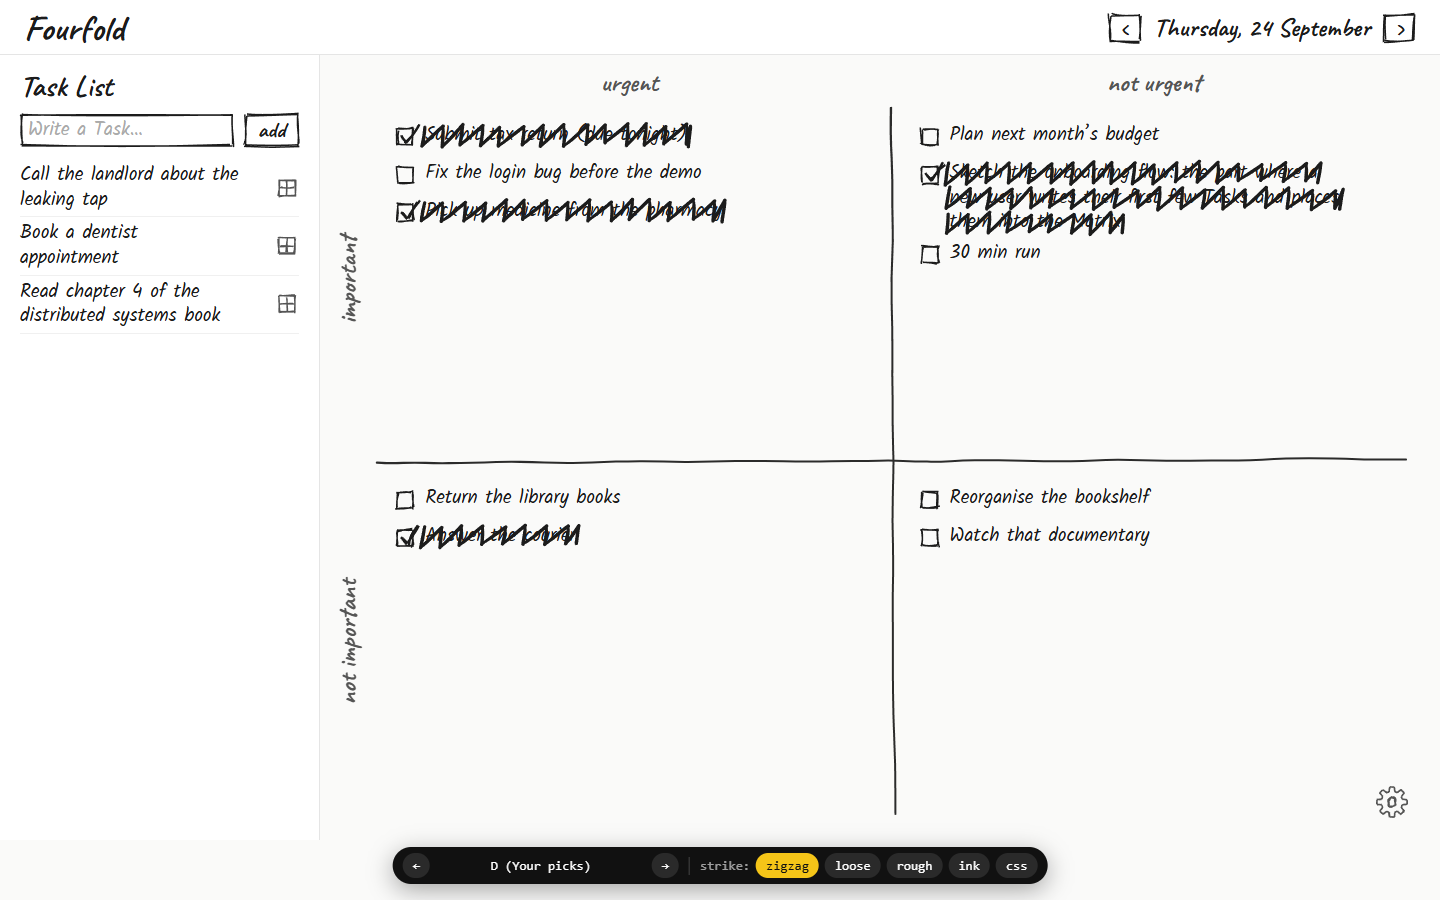
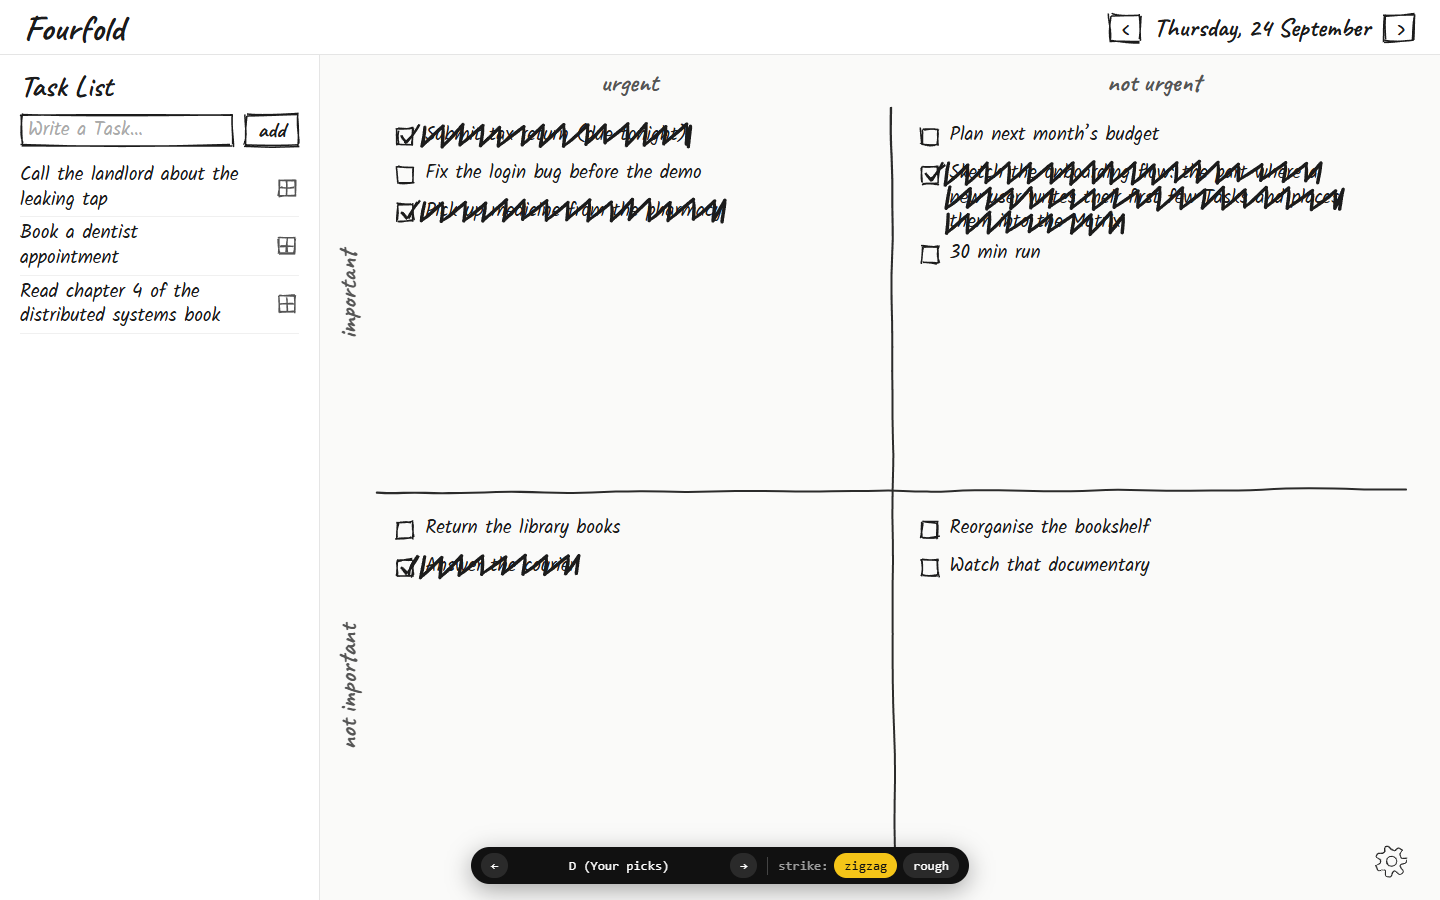
PROTOTYPE #8: D round 6 - drawn return arrow, doodled gear, no bottom gap, zigzag and rough only, new dark themes
- Matrix return button is a hand-drawn arrow instead of the ↩ glyph
- Settings gear is doodled in felt pen in the Matrix line colour
- Removed the 60px gap under the Task List and Matrix
- Strike options cut to zigzag (default) and rough
- Colours: plain, ivory & navy, ivory & black, and four dark bases to iterate on
  (ivory ink, chalkboard, midnight, red pen)

diff --git a/prototypes/visual-direction/src/styles.css b/prototypes/visual-direction/src/styles.css
@@ -8,7 +8,6 @@ ul, ol { list-style: none; margin: 0; padding: 0; }
 /* ---------- Strike-through ---------- */
 .strike-wrap { position: relative; display: block; flex: 1; min-width: 0; }
 .strike-none { text-decoration: none; }
-.strike-css { text-decoration: line-through; text-decoration-thickness: 2px; text-decoration-color: var(--strike, currentColor); }
 s { opacity: 0.6; }
 .strike-svg { position: absolute; inset: 0; width: 100%; height: 100%; overflow: visible; pointer-events: none; color: var(--strike, currentColor); }
 .draw-on { stroke-dasharray: 1; stroke-dashoffset: 1; animation: draw-on 0.35s ease-out var(--d, 0s) forwards; }
@@ -139,17 +138,20 @@ s { opacity: 0.6; }
   position: relative; height: 100%; display: flex; flex-direction: column; background: var(--bg); color: var(--ink); font: 19px/1.3 Kalam, cursive;
   transition: background-color .25s, color .25s;
 }
-/* Luxury: an ivory and a noir base, each with a gold accent and three others */
-.vd[data-theme=ivory], .vd-swatch[data-theme=ivory], .vd[data-theme=ivory-navy], .vd-swatch[data-theme=ivory-navy], .vd[data-theme=ivory-forest], .vd-swatch[data-theme=ivory-forest], .vd[data-theme=ivory-burgundy], .vd-swatch[data-theme=ivory-burgundy] { --bg: #f7f3ea; --panel: #fffdf8; --line: #e6dcc6; --line-soft: #efe8d8; --ink: #161616; --faint: #b9ad93; --divider: #161616; --soft: #f0e8d6; --danger: #8e2a1c; }
-.vd[data-theme=ivory], .vd-swatch[data-theme=ivory] { --muted: #9a8456; --strike: #b08d4a; }
+/* Ivory base with a navy or a black pen */
+.vd[data-theme=ivory-navy], .vd-swatch[data-theme=ivory-navy], .vd[data-theme=ivory-black], .vd-swatch[data-theme=ivory-black] { --bg: #f7f3ea; --panel: #fffdf8; --line: #e6dcc6; --line-soft: #efe8d8; --ink: #161616; --faint: #b9ad93; --divider: #161616; --soft: #f0e8d6; --danger: #8e2a1c; }
 .vd[data-theme=ivory-navy], .vd-swatch[data-theme=ivory-navy] { --muted: #4a5d80; --strike: #1f3a68; }
-.vd[data-theme=ivory-forest], .vd-swatch[data-theme=ivory-forest] { --muted: #5b7560; --strike: #2f5a3e; }
-.vd[data-theme=ivory-burgundy], .vd-swatch[data-theme=ivory-burgundy] { --muted: #85505a; --strike: #7d1f2e; }
-.vd[data-theme=noir], .vd-swatch[data-theme=noir], .vd[data-theme=noir-silver], .vd-swatch[data-theme=noir-silver], .vd[data-theme=noir-rose], .vd-swatch[data-theme=noir-rose], .vd[data-theme=noir-sage], .vd-swatch[data-theme=noir-sage] { --bg: #111111; --panel: #1a1a19; --line: #2e2b26; --line-soft: #24221f; --ink: #ede6d6; --faint: #6f685a; --soft: #26231f; --danger: #e07a5f; --shadow: rgba(0,0,0,.6); }
-.vd[data-theme=noir], .vd-swatch[data-theme=noir] { --muted: #b09c70; --divider: #c9a45c; --strike: #c9a45c; }
-.vd[data-theme=noir-silver], .vd-swatch[data-theme=noir-silver] { --bg: #111214; --panel: #1a1b1d; --line: #2d2f33; --line-soft: #232427; --ink: #ebebeb; --faint: #686c72; --soft: #25272a; --muted: #a3a8ae; --divider: #c4c9cf; --strike: #c4c9cf; }
-.vd[data-theme=noir-rose], .vd-swatch[data-theme=noir-rose] { --muted: #c49a98; --divider: #d9a5a0; --strike: #d9a5a0; }
-.vd[data-theme=noir-sage], .vd-swatch[data-theme=noir-sage] { --muted: #9fb09a; --divider: #a9bfa2; --strike: #a9bfa2; }
+.vd[data-theme=ivory-black], .vd-swatch[data-theme=ivory-black] { --muted: #5f594d; --strike: #161616; }
+/* Dark: four different bases rather than one black with different accents */
+.vd[data-theme^=noir], .vd-swatch[data-theme^=noir] { --shadow: rgba(0,0,0,.6); }
+/* ivory ink on warm black: the ivory theme turned over */
+.vd[data-theme=noir-ivory], .vd-swatch[data-theme=noir-ivory] { --bg: #151412; --panel: #1c1b18; --line: #302d27; --line-soft: #262420; --ink: #efe7d4; --muted: #a59b85; --faint: #6e6758; --divider: #e6dcc6; --strike: #efe7d4; --soft: #2a2723; --danger: #e07a5f; }
+/* chalk on a slate blackboard */
+.vd[data-theme=noir-chalk], .vd-swatch[data-theme=noir-chalk] { --bg: #232b2a; --panel: #283230; --line: #3a4644; --line-soft: #313c3a; --ink: #eceee6; --muted: #a8b4ad; --faint: #6f7c77; --divider: #e3e6dc; --strike: #f4f1e2; --soft: #33403e; --danger: #f0a08a; }
+/* pale ink on deep navy */
+.vd[data-theme=noir-midnight], .vd-swatch[data-theme=noir-midnight] { --bg: #0f1422; --panel: #151b2c; --line: #27314a; --line-soft: #1e2639; --ink: #e4e9f4; --muted: #8e9cba; --faint: #56627e; --divider: #c9d5ee; --strike: #8fb0e8; --soft: #212a40; --danger: #f08a7a; }
+/* neutral black, white ink, an editor's red pen for strikes and ticks */
+.vd[data-theme=noir-redpen], .vd-swatch[data-theme=noir-redpen] { --bg: #121212; --panel: #191919; --line: #2d2d2d; --line-soft: #232323; --ink: #ececec; --muted: #9c9c9c; --faint: #636363; --divider: #e6e6e6; --strike: #e8553e; --soft: #262626; --danger: #e8553e; }
 
 .vd button { border: 0; background: none; }
 .vd input { color: inherit; }
@@ -158,7 +160,7 @@ s { opacity: 0.6; }
 .vd-top h1 { font: 700 36px/1 Caveat, cursive; margin: 0; }
 .vd-date { margin-left: auto; display: flex; align-items: center; gap: 12px; font: 700 26px/1 Caveat, cursive; }
 .vd-btn button { width: 34px; height: 30px; font-size: 22px; }
-.vd-body { flex: 1; display: flex; min-height: 0; padding-bottom: 60px; }
+.vd-body { flex: 1; display: flex; min-height: 0; }
 .vd-page { background: var(--panel); }
 .vd-list { width: 320px; flex: none; padding: 16px 20px; overflow: auto; border-right: 1px solid var(--line); }
 .vd-list h2 { font: 700 30px/1 Caveat, cursive; margin: 0 0 12px; }
@@ -192,12 +194,13 @@ s { opacity: 0.6; }
 /* Completed Tasks keep full ink; the tick and the strike share one colour. */
 .vd s { opacity: 1; }
 .vd .rough-check { color: var(--strike); }
-.vd-return { opacity: 0; color: var(--faint); }
-.vd-q li:hover .vd-return, .vd-return:focus-visible { opacity: 1; }
+.vd .vd-return { display: flex; padding: 3px; margin-top: 3px; opacity: 0; color: var(--faint); }
+.vd button.vd-return:hover { color: var(--ink); }
+.vd-q li:hover .vd-return, .vd .vd-return:focus-visible { opacity: 1; }
 .vd .vd-delete { display: flex; padding: 3px; color: var(--faint); opacity: 0; }
 .vd li:hover .vd-delete, .vd .vd-delete:focus-visible { opacity: 1; }
 .vd button.vd-delete:hover { color: var(--danger); }
-@media (hover: none) { .vd .vd-delete, .vd-return { opacity: 1; } }
+@media (hover: none) { .vd .vd-delete, .vd .vd-return { opacity: 1; } }
 .vd li[data-id] { touch-action: none; cursor: grab; user-select: none; }
 .vd li.dragging { opacity: .3; }
 .vd .vd-drop-line { min-height: 0; height: 0; padding: 0; margin: 2px 0; border-top: 3px solid var(--ink); border-radius: 2px; }
@@ -212,9 +215,9 @@ body.vd-dragging, body.vd-dragging * { cursor: grabbing !important; }
 
 /* Popovers: place menu and settings */
 .vd-pop { position: fixed; z-index: 950; background: var(--panel); color: var(--ink); border: 1px solid var(--line); border-radius: 10px; box-shadow: 0 14px 34px var(--shadow); cursor: default; }
-.vd .vd-gear { position: absolute; right: 2px; bottom: 0; z-index: 5; display: flex; padding: 4px; color: var(--muted); }
+.vd .vd-gear { position: absolute; right: 2px; bottom: 0; z-index: 5; display: flex; padding: 4px; color: var(--divider); }
 .vd .vd-gear:hover, .vd .vd-gear[aria-expanded=true] { color: var(--ink); }
-.gear-icon { width: 36px; height: 36px; overflow: visible; transition: transform .4s; }
+.gear-icon { width: 38px; height: 38px; overflow: visible; transition: transform .4s; }
 .vd-gear:hover .gear-icon { transform: rotate(45deg); }
 .vd-settings { width: 370px; max-height: calc(100vh - 100px); overflow: auto; padding: 14px 18px 16px; }
 .vd-settings h2 { font: 700 28px/1 Caveat, cursive; margin: 0 0 8px; }

diff --git a/prototypes/visual-direction/src/sketch.ts b/prototypes/visual-direction/src/sketch.ts
@@ -40,6 +40,8 @@ export const roughCircle = (x: number, y: number, d: number, o: Options) => path
 
 export const roughPolyline = (pts: [number, number][], o: Options) => paths(gen.linearPath(pts, o));
 
+export const roughCurve = (pts: [number, number][], o: Options) => paths(gen.curve(pts, o));
+
 const avg = (a: number, b: number) => (a + b) / 2;
 
 function pathFromStroke(points: number[][]): string {
@@ -74,22 +76,6 @@ export function inkLine(x1: number, y1: number, x2: number, y2: number, seed: nu
     pts.push([x1 + (x2 - x1) * t + nx * off, y1 + (y2 - y1) * t + ny * off]);
   }
   return inkPath(pts, size);
-}
-
-/** Tight back-and-forth scribble across one line box of text. */
-export function scribble(x: number, y: number, w: number, h: number, seed: number): string {
-  const r = rng(seed);
-  const mid = y + h * 0.55;
-  const amp = h * 0.2;
-  const pts: number[][] = [[x - 3, mid + (r() - 0.5) * amp]];
-  let cx = x - 3;
-  let up = true;
-  while (cx < x + w + 3) {
-    cx += 6 + r() * 6;
-    pts.push([Math.min(cx, x + w + 3), mid + (up ? -1 : 1) * amp * (0.6 + r() * 0.6)]);
-    up = !up;
-  }
-  return inkPath(pts, Math.max(2, h * 0.11));
 }
 
 /**
@@ -127,37 +113,43 @@ export function zigzag(x: number, y: number, w: number, h: number, seed: number)
 }
 
 /**
- * Round 4's loose crossing-out: a zigzag through the middle of the line, both strokes slanted,
- * teeth that widen as the hand speeds up, tapering in and out where the pen lands and lifts.
+ * A gear doodled with the felt pen: one wobbly stroke round chunky, uneven teeth that overshoots where it
+ * started, and a hub looped a little more than once. Returns filled outline paths in a 32x32 box.
  */
-export function looseZigzag(x: number, y: number, w: number, h: number, seed: number): string {
+export function gearDoodle(seed: number): string[] {
   const r = rng(seed);
   const jit = (n: number) => (r() - 0.5) * n;
-  const mid = y + h * 0.56;
-  const amp = h * 0.3;
-  const rise = jit(h * 0.14) - h * 0.04; // most hands drift slightly uphill
-  const at = (cx: number) => mid + ((cx - x) / Math.max(w, 1)) * rise;
-  const end = x + w + 2;
-  let cx = x - 4;
-  let prev = [cx, at(cx) + amp * 0.5];
-  const pts: number[][] = [prev];
-  let up = true;
-  let stepW = h * (0.36 + r() * 0.08);
-  while (cx < end) {
-    // Up-strokes travel further than down-strokes, so the teeth lean forward like handwriting.
-    const adv = stepW * (up ? 0.64 : 0.36) + jit(h * 0.06);
-    const nx = Math.min(cx + adv, end);
-    const a = amp * (0.8 + r() * 0.4);
-    const turn = [nx + jit(1.5), at(nx) + (up ? -a : a)];
-    // Wobble mid-stroke; the turn itself stays sharp-ish (streamline rounds it just a little).
-    pts.push([prev[0] + (turn[0] - prev[0]) * 0.5 + jit(1.4), prev[1] + (turn[1] - prev[1]) * 0.5 + jit(1.4)]);
-    pts.push(turn);
-    prev = turn;
-    cx = nx;
-    up = !up;
-    stepW *= 1.01 + r() * 0.03;
+  const c = 16;
+  const at = (a: number, rad: number): number[] => [c + Math.cos(a) * rad + jit(1.3), c + Math.sin(a) * rad + jit(1.3)];
+  const teeth = 7;
+  const tilt = r() * Math.PI;
+  const corners: number[][] = [];
+  for (let i = 0; i < teeth; i++) {
+    const a = tilt + (i / teeth) * Math.PI * 2 + jit(0.1);
+    const tip = 13.4 + jit(1.4);
+    corners.push(at(a - 0.31, 9.2), at(a - 0.16, tip), at(a + 0.16, tip), at(a + 0.31, 9.2));
   }
-  // The pen lifts off the last stroke, so it tapers out instead of ending blunt.
-  const outline = getStroke(pts, { size: Math.max(2.8, h * 0.13), thinning: 0.2, smoothing: 0.3, streamline: 0.2, simulatePressure: true, last: true, start: { taper: h * 0.3 }, end: { taper: h * 0.9 } });
-  return pathFromStroke(outline);
+  // Carry on past the start along the first edge, the way a quick doodle never closes exactly.
+  const [p0, p1] = corners;
+  corners.push(p0, [p0[0] + (p1[0] - p0[0]) * 0.6 + 0.8, p0[1] + (p1[1] - p0[1]) * 0.6 + 0.8]);
+  const pts: number[][] = [];
+  for (let i = 0; i < corners.length - 1; i++) {
+    const [ax, ay] = corners[i];
+    const [bx, by] = corners[i + 1];
+    pts.push(corners[i], [ax + (bx - ax) * 0.5 + jit(0.9), ay + (by - ay) * 0.5 + jit(0.9)]);
+  }
+  pts.push(corners[corners.length - 1]);
+  // The hub: a quick loop that goes round a bit more than once and doesn't land on itself.
+  const hub: number[][] = [];
+  const a0 = r() * Math.PI * 2;
+  for (let i = 0; i <= 16; i++) {
+    const a = a0 + (i / 12.5) * Math.PI * 2;
+    const rad = 4 + i * 0.06 + jit(0.5);
+    hub.push([c + 0.4 + Math.cos(a) * rad, c + Math.sin(a) * rad]);
+  }
+  const pen = { thinning: 0.5, smoothing: 0.15, streamline: 0.1, simulatePressure: true, last: true };
+  return [
+    pathFromStroke(getStroke(pts, { ...pen, size: 2, start: { taper: 3 }, end: { taper: 7 } })),
+    pathFromStroke(getStroke(hub, { ...pen, size: 1.8, start: { taper: 2 }, end: { taper: 5 } })),
+  ];
 }

diff --git a/prototypes/visual-direction/src/draw.tsx b/prototypes/visual-direction/src/draw.tsx
@@ -1,7 +1,7 @@
 // PROTOTYPE: decorative, aria-hidden SVG layers. Meaning always lives in real DOM text/semantics.
 import { useEffect, useLayoutEffect, useMemo, useRef, useState, type CSSProperties, type ReactNode } from 'react';
 import type { StrikeStyle } from './store';
-import { inkLine, roughCircle, roughLine, roughPolyline, roughRect, looseZigzag, scribble, seedOf, zigzag, type SketchPath } from './sketch';
+import { gearDoodle, inkLine, roughCurve, roughLine, roughPolyline, roughRect, seedOf, zigzag, type SketchPath } from './sketch';
 
 export function useSize<T extends HTMLElement>() {
   const ref = useRef<T>(null);
@@ -39,7 +39,7 @@ function Paths({ paths, className }: { paths: SketchPath[]; className?: string }
 
 type Line = { x: number; y: number; w: number; h: number };
 
-/** Task text that gets a hand-drawn strike-through (or plain CSS one) when completed. */
+/** Task text that gets a hand-drawn strike-through when completed. */
 export function StrikeText({ id, text, done, style }: { id: string; text: string; done: boolean; style: StrikeStyle }) {
   const wrapRef = useRef<HTMLSpanElement>(null);
   const textRef = useRef<HTMLSpanElement>(null);
@@ -52,7 +52,7 @@ export function StrikeText({ id, text, done, style }: { id: string; text: string
   const animate = done && !doneOnMount.current;
 
   useLayoutEffect(() => {
-    if (!done || style === 'css') return;
+    if (!done) return;
     const measure = () => {
       const range = document.createRange();
       range.selectNodeContents(textRef.current!);
@@ -82,8 +82,8 @@ export function StrikeText({ id, text, done, style }: { id: string; text: string
   const inner = <span ref={textRef}>{text}</span>;
   return (
     <span ref={wrapRef} className="strike-wrap">
-      {done ? <s className={style === 'css' ? 'strike-css' : 'strike-none'}>{inner}</s> : inner}
-      {done && style !== 'css' && (
+      {done ? <s className="strike-none">{inner}</s> : inner}
+      {done && (
         <svg className="strike-svg" aria-hidden="true">
           {lines.map((l, i) =>
             style === 'rough' ? (
@@ -101,7 +101,7 @@ export function StrikeText({ id, text, done, style }: { id: string; text: string
             ) : (
               <path
                 key={i}
-                d={(style === 'zigzag' ? zigzag : style === 'loose' ? looseZigzag : scribble)(l.x, l.y, l.w, l.h, seed + i)}
+                d={zigzag(l.x, l.y, l.w, l.h, seed + i)}
                 fill="currentColor"
                 className={animate ? 'wipe-on' : undefined}
                 style={{ '--d': `${i * 0.3}s` } as CSSProperties}
@@ -234,22 +234,30 @@ export function PlaceIcon({ seed }: { seed: number }) {
   );
 }
 
-/** Pencil-sketched gear: a toothed outline and a hole, drawn twice over like a doodle. */
-export function GearIcon({ seed }: { seed: number }) {
+/** Hand-drawn ↩ for sending a Task back to the Task List. */
+export function ReturnIcon({ seed }: { seed: number }) {
   const paths = useMemo(() => {
-    const pts: [number, number][] = [];
-    const at = (a: number, r: number): [number, number] => [16 + Math.cos(a) * r, 16 + Math.sin(a) * r];
-    for (let i = 0; i < 8; i++) {
-      const a = (i / 8) * Math.PI * 2;
-      pts.push(at(a - 0.27, 9.5), at(a - 0.15, 13.5), at(a + 0.15, 13.5), at(a + 0.27, 9.5));
-    }
-    pts.push(pts[0]);
-    const o = { roughness: 0.9, bowing: 0.8, strokeWidth: 1.4 };
-    return [...roughPolyline(pts, { ...o, seed }), ...roughCircle(16, 16, 8, { ...o, seed: seed + 1 })];
+    const o = { roughness: 0.9, bowing: 0.6, strokeWidth: 1.6, disableMultiStroke: true };
+    return [
+      ...roughCurve([[15, 2.5], [15.2, 7.5], [12.5, 11], [8, 11.6], [3.5, 11.2]], { ...o, seed }),
+      ...roughPolyline([[7.6, 7.4], [3.4, 11.2], [7.4, 15]], { ...o, seed: seed + 1 }),
+    ];
   }, [seed]);
   return (
-    <svg className="gear-icon" viewBox="0 0 32 32" aria-hidden="true">
+    <svg className="quad-icon" viewBox="0 0 18 18" aria-hidden="true">
       <Paths paths={paths} />
+    </svg>
+  );
+}
+
+/** A gear doodled in felt pen, in the same hand as the Matrix lines and the strike. */
+export function GearIcon({ seed }: { seed: number }) {
+  const ds = useMemo(() => gearDoodle(seed), [seed]);
+  return (
+    <svg className="gear-icon" viewBox="0 0 32 32" aria-hidden="true">
+      {ds.map((d, i) => (
+        <path key={i} d={d} fill="currentColor" />
+      ))}
     </svg>
   );
 }

diff --git a/prototypes/visual-direction/src/variants/D_Picks.tsx b/prototypes/visual-direction/src/variants/D_Picks.tsx
@@ -4,23 +4,21 @@
 // Colour schemes live behind the sketched settings gear in the Matrix's bottom-right corner, mirrored in the URL.
 import { useEffect, useRef, useState, type PointerEvent as ReactPointerEvent, type ReactNode } from 'react';
 import { DATE } from '../bits';
-import { DeleteIcon, Dividers, GearIcon, PlaceIcon, QuadIcon, QuadrantDone, RoughBox, RoughCheck, StrikeText } from '../draw';
+import { DeleteIcon, Dividers, GearIcon, PlaceIcon, QuadIcon, QuadrantDone, ReturnIcon, RoughBox, RoughCheck, StrikeText } from '../draw';
 import { seedOf } from '../sketch';
 import { QUADRANTS, type QuadrantIndex, type Store, type Task, type VariantProps } from '../store';
 
 export const name = 'Your picks';
 
-// Two luxury bases, each tried with gold and with other accents.
+// Plain and the two ivory keepers; the dark ones are still being iterated on (round 6: new bases, not just new accents).
 const THEMES = {
   plain: { label: 'Plain', group: 'Plain' },
-  ivory: { label: 'gold', group: 'Ivory' },
   'ivory-navy': { label: 'navy', group: 'Ivory' },
-  'ivory-forest': { label: 'forest', group: 'Ivory' },
-  'ivory-burgundy': { label: 'burgundy', group: 'Ivory' },
-  noir: { label: 'gold', group: 'Noir' },
-  'noir-silver': { label: 'silver', group: 'Noir' },
-  'noir-rose': { label: 'rose', group: 'Noir' },
-  'noir-sage': { label: 'sage', group: 'Noir' },
+  'ivory-black': { label: 'black', group: 'Ivory' },
+  'noir-ivory': { label: 'ivory ink', group: 'Dark' },
+  'noir-chalk': { label: 'chalkboard', group: 'Dark' },
+  'noir-midnight': { label: 'midnight', group: 'Dark' },
+  'noir-redpen': { label: 'red pen', group: 'Dark' },
 } as const;
 type Theme = keyof typeof THEMES;
 
@@ -167,7 +165,7 @@ function Settings({ theme, setTheme }: { theme: Theme; setTheme: (t: Theme) => v
     const r = btn.current!.getBoundingClientRect();
     setAt({ right: Math.max(8, innerWidth - r.right), bottom: innerHeight - r.top + 6 });
   };
-  const groups = ['Plain', 'Ivory', 'Noir'] as const;
+  const groups = ['Plain', 'Ivory', 'Dark'] as const;
   return (
     <>
       <button ref={btn} className="vd-gear" onClick={toggle} aria-expanded={at !== null} aria-label="Settings" title="Settings">
@@ -178,7 +176,7 @@ function Settings({ theme, setTheme }: { theme: Theme; setTheme: (t: Theme) => v
           <h2>Colours</h2>
           {groups.map((g) => (
             <div key={g} className="vd-swatches">
-              {g !== 'Plain' && <span className="vd-group">{g.toLowerCase()} &amp;</span>}
+              {g !== 'Plain' && <span className="vd-group">{g === 'Ivory' ? 'ivory &' : 'dark'}</span>}
               {(Object.keys(THEMES) as Theme[])
                 .filter((k) => THEMES[k].group === g)
                 .map((k) => (
@@ -278,7 +276,7 @@ export function Variant({ store, strike }: VariantProps) {
                         </label>
                         <StrikeText id={t.id} text={t.text} done={t.done} style={strike} />
                         <button className="vd-return" onClick={() => store.unplace(t.id)} title="Return to Task List" aria-label={`Return ${t.text} to Task List`}>
-                          ↩
+                          <ReturnIcon seed={seedOf(t.id) + 7} />
                         </button>
                       </li>
                     ))}

diff --git a/prototypes/visual-direction/src/main.tsx b/prototypes/visual-direction/src/main.tsx
@@ -1,5 +1,5 @@
 // PROTOTYPE for #8 "Visual direction": three variants of how far the hand-drawn feel extends,
-// switchable via ?variant=A|B|C|D, plus ?strike=zigzag|loose|rough|ink|css for the Completed Task strike-through.
+// switchable via ?variant=A|B|C|D, plus ?strike=zigzag|rough for the Completed Task strike-through.
 import { StrictMode, useState } from 'react';
 import { createRoot } from 'react-dom/client';
 import './styles.css';

diff --git a/prototypes/visual-direction/src/store.ts b/prototypes/visual-direction/src/store.ts
@@ -65,6 +65,6 @@ export function useTasks() {
 }
 
 export type Store = ReturnType<typeof useTasks>;
-export type StrikeStyle = 'zigzag' | 'loose' | 'rough' | 'ink' | 'css';
-export const STRIKES: StrikeStyle[] = ['zigzag', 'loose', 'rough', 'ink', 'css'];
+export type StrikeStyle = 'zigzag' | 'rough';
+export const STRIKES: StrikeStyle[] = ['zigzag', 'rough'];
 export type VariantProps = { store: Store; strike: StrikeStyle };

diff --git a/prototypes/visual-direction/README.md b/prototypes/visual-direction/README.md
@@ -17,11 +17,11 @@ Flip variants with the bottom bar (or ←/→ keys). State (placements, completi
 | `C` Whole notebook | Paper grain, ruled Task List page, sketchy boxes/checkboxes/buttons, arrowed axes, handwriting everywhere. |
 | `D` Your picks (default) | Built from the feedback on A–C: A's partitioning (header / Task List / Matrix, input and Add apart), B's urgent / important axis headers and felt-pen dividers, C's sketched controls and handwriting. No Current Matrix pill; date navigation on the right. Drag-and-drop placement (into a Quadrant at a position, between Quadrants, back to the Task List), with a non-drag fallback in the Task List (a sketched mini-Matrix icon that swaps for four small Quadrant buttons). The sketched × (hover-revealed, no undo) deletes Tasks in the Task List only. Completed Tasks keep full ink; the tick and the strike share the theme's strike colour. A Quadrant whose Tasks are all Completed is hatched across its whole frame, even when its list scrolls. A sketched settings gear in the Matrix's bottom-right corner holds the colour schemes. |
 
-`?strike=zigzag|loose|rough|ink|css` switches the Completed Task strike-through (felt-pen `|/|/|/|` zigzag that starts and ends on a down stroke, the default / round 4's loose tapered zigzag / rough.js line / perfect-freehand scribble / plain CSS).
+`?strike=zigzag|rough` switches the Completed Task strike-through (felt-pen `|/|/|/|` zigzag that starts and ends on a down stroke, the default / rough.js pencil line).
 
 D only, also set from the settings gear:
 
-- `?theme=plain|ivory|ivory-navy|ivory-forest|ivory-burgundy|noir|noir-silver|noir-rose|noir-sage` switches the colour scheme: plain, or an ivory or noir base with a gold, navy, forest, burgundy, silver, rose or sage accent. The settings gear in the Matrix's bottom-right corner sets it too.
+- `?theme=plain|ivory-navy|ivory-black|noir-ivory|noir-chalk|noir-midnight|noir-redpen` switches the colour scheme: plain, ivory with a navy or black pen, or one of four dark bases still being tried (ivory ink on warm black, chalk on slate, midnight navy, black with a red pen). The doodled gear in the Matrix's bottom-right corner sets it too.
 
 Per the in-Quadrant layout decision (#6): Quadrants are plain ordered lists, Tasks drawn straight, Completed Tasks stay in place. In A–C the placement buttons are a stand-in (append to end of Quadrant).
 
